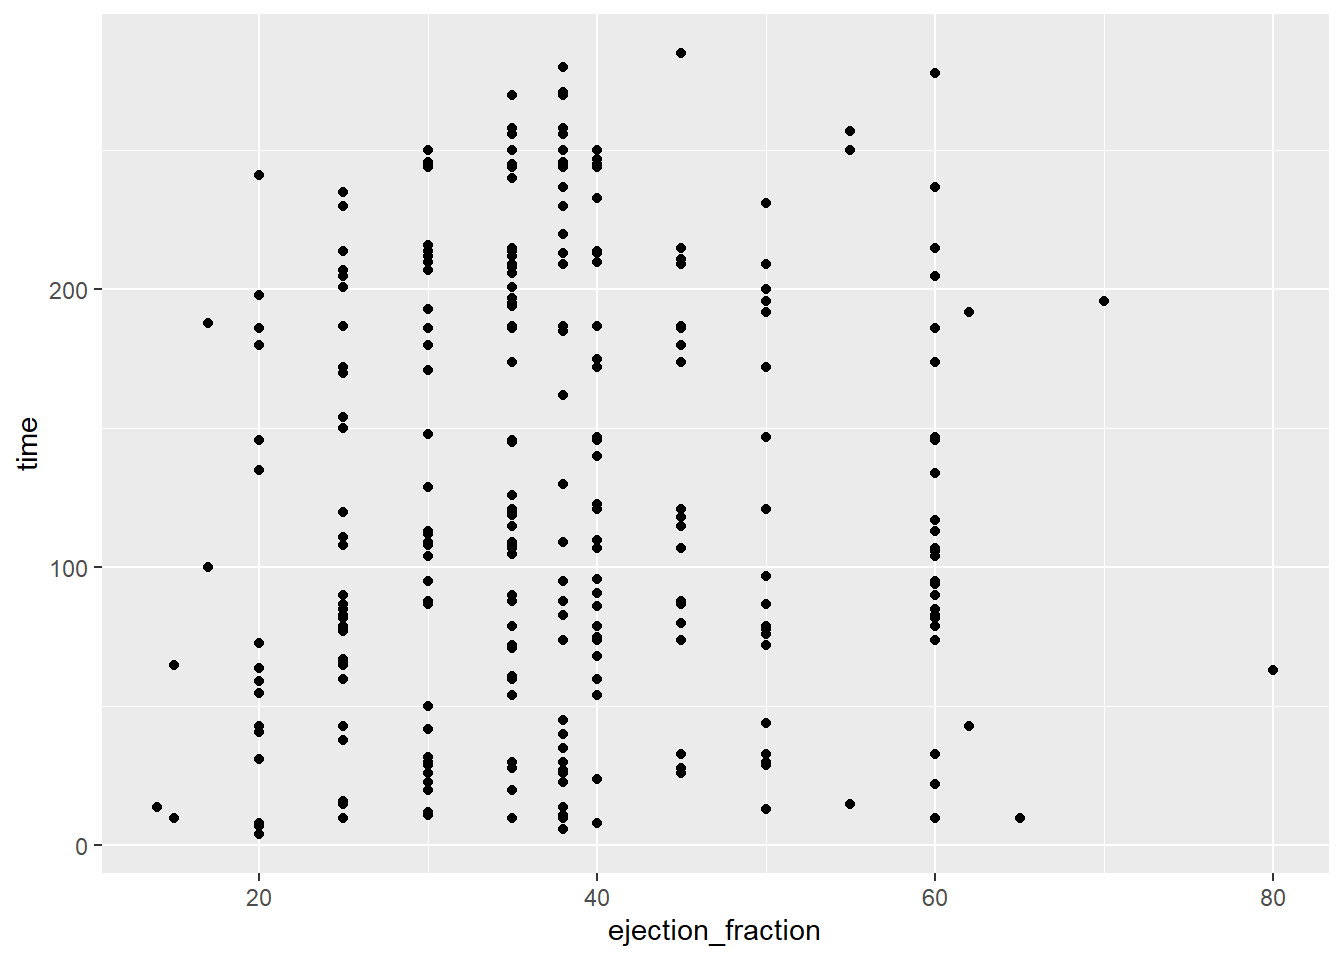
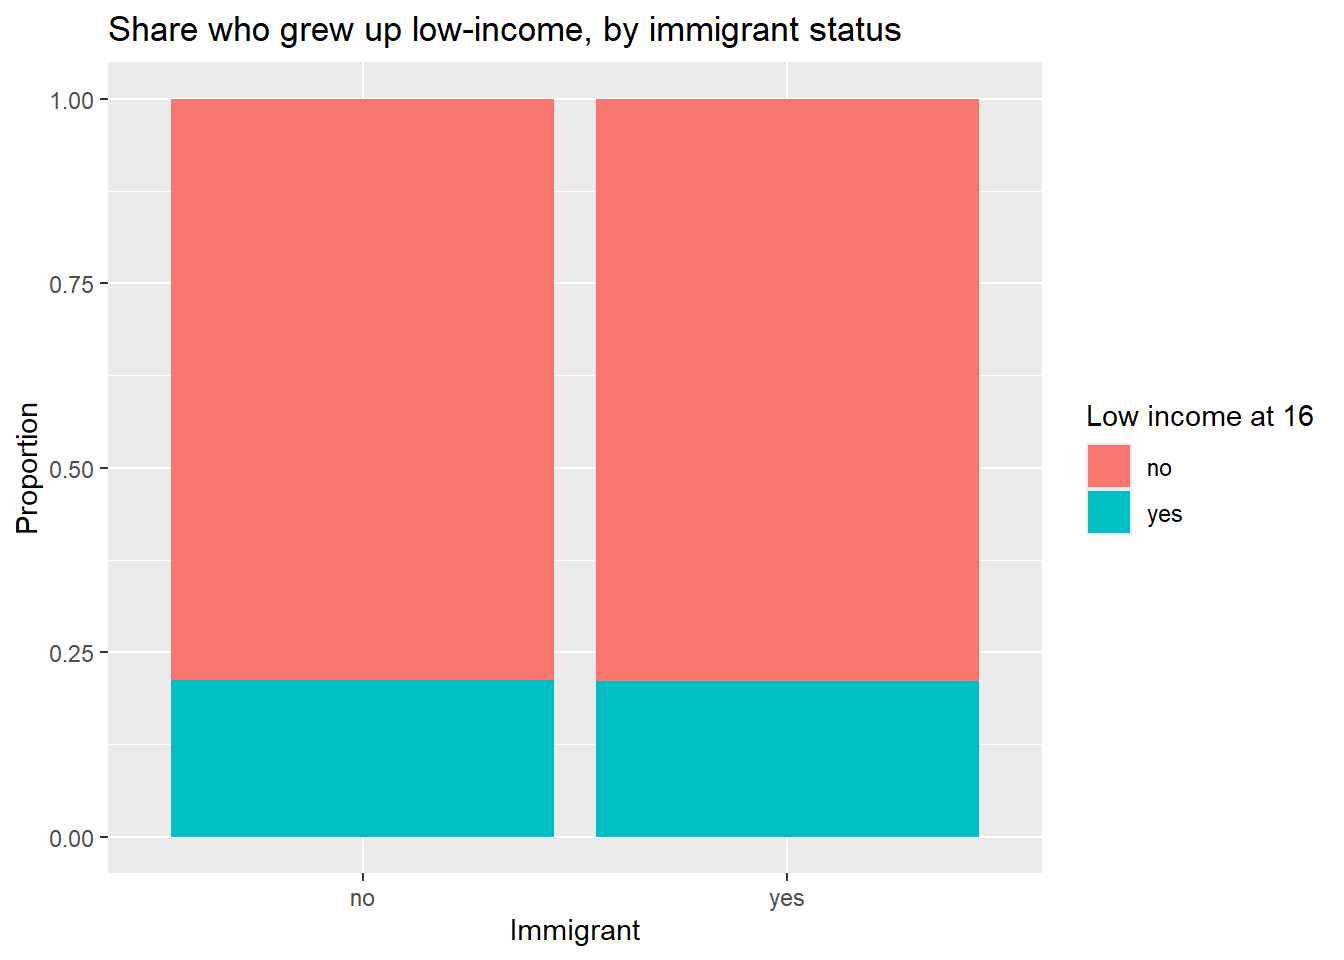
We made changes in panel A limits and all, and then we grafted a few graphs in panel B.

diff --git a/_site/index.html b/_site/index.html
@@ -692,8 +692,11 @@ $ DEATH_EVENT              &lt;fct&gt; yes, yes, yes, yes, yes, yes, yes, yes, y
 <li>Does a weaker heart mean patients don’t survive as long?</li>
 </ol>
 <p>Possibly cannot answer:</p>
-<p>1.Does getting older cause death in heart failure patients? (The data does not show that one causes the other) 2.What happened to patients after the study ended? (we don’t know about later outcomes.)</p>
-<p>Tea test</p>
+<ol type="1">
+<li><p>Does getting older cause death in heart failure patients? (The data does not show that one causes the other)</p></li>
+<li><p>What happened to patients after the study ended? (we don’t know about later outcomes.)</p></li>
+</ol>
+<p>T_test</p>
 <div class="cell">
 <div class="code-copy-outer-scaffold"><div class="sourceCode cell-code" id="cb35"><pre class="sourceCode r code-with-copy"><code class="sourceCode r"><span id="cb35-1"><a href="#cb35-1" aria-hidden="true" tabindex="-1"></a>A <span class="sc">|&gt;</span> <span class="fu">gf_histogram</span>(<span class="sc">~</span> age, <span class="at">fill =</span> <span class="sc">~</span> DEATH_EVENT)</span></code></pre></div><button title="Copy to Clipboard" class="code-copy-button"><i class="bi"></i></button></div>
 <div class="cell-output cell-output-stderr">
@@ -832,6 +835,7 @@ sample estimates:
 <section id="limit" class="level3">
 <h3 class="anchored" data-anchor-id="limit">7. Limit</h3>
 <p>What this panel cannot do. Which kit table we refused to abuse.</p>
+<p>We can see patterns in who died, but we cannot say what caused the deaths or whether these patterns apply to everyone with heart failure.</p>
 </section>
 </section>
 <section id="panel-b-category-talk" class="level1">
@@ -1031,13 +1035,12 @@ $ immigrant   &lt;chr&gt; "no", "no", "yes", "no", "no", "no", "no", "yes", "yes
 <h3 class="anchored" data-anchor-id="ask-1">2. Ask</h3>
 <p>One question <em>this</em> table can answer. One it cannot. Write both.</p>
 <ol type="1">
-<li>Were immigrants more likely to grow up in a low-income family?</li>
-<li>Does education differ between people who grew up low-income and those who didn’t?</li>
-<li>Does growing up low-income relate to how many kids someone has later? (Main Character Question)</li>
-<li>Do people with more years of education have fewer kids?</li>
-<li>Do immigrants have a different number of kids than non-immigrants?</li>
-<li>Do people who experienced low income at age 16 have fewer years of education?</li>
-<li>How many years of education do people in the dataset have?</li>
+<li>Were immigrants more likely to grow up in a low-income family? Immigrants and low income at 16 (shown through education)</li>
+<li>Does education differ between people who grew up low-income and those who didn’t? Education and low income at 16</li>
+<li>Does growing up low-income relate to number of kids? (Main Character)</li>
+<li>Do people with more education have fewer kids?</li>
+<li>Do immigrants have a different number of kids?</li>
+<li>How many years of education do people have?</li>
 </ol>
 <p>Test</p>
 <div class="cell">
@@ -1139,11 +1142,76 @@ key:
 <section id="make-1" class="level3">
 <h3 class="anchored" data-anchor-id="make-1">5. Make</h3>
 <p>Human brick first. Optional: one AI prompt, pasted below, only for what section 3 named.</p>
-<div class="code-copy-outer-scaffold"><div class="sourceCode" id="cb60"><pre class="sourceCode r code-with-copy"><code class="sourceCode r"><span id="cb60-1"><a href="#cb60-1" aria-hidden="true" tabindex="-1"></a><span class="co"># human chunk</span></span>
-<span id="cb60-2"><a href="#cb60-2" aria-hidden="true" tabindex="-1"></a></span>
-<span id="cb60-3"><a href="#cb60-3" aria-hidden="true" tabindex="-1"></a><span class="co"># ## Prompt we actually used</span></span>
-<span id="cb60-4"><a href="#cb60-4" aria-hidden="true" tabindex="-1"></a><span class="co"># ai_draft</span></span>
-<span id="cb60-5"><a href="#cb60-5" aria-hidden="true" tabindex="-1"></a><span class="co"># ours</span></span></code></pre></div><button title="Copy to Clipboard" class="code-copy-button"><i class="bi"></i></button></div>
+<p>These first few charts are what I want to check out. I may/will not have these charts in the final rendered Quarto, but want to comment on findings if needed. If any chart is surprising, it stays. We have decided on choosing graph 2 as our final graph and therefore we did the t-test for it as well.</p>
+<ol type="1">
+<li>{r} B |&gt; gf_bar(~ immigrant, fill = ~ lowincome16, position = “fill”) |&gt; gf_labs(title = “Share who grew up low-income, by immigrant status”, x = “Immigrant”, y = “Proportion”, fill = “Low income at 16”)</li>
+</ol>
+<p>{r} vcd::structable( lowincome16 ~ immigrant, data=B) |&gt; vcd:: mosaic() vcd::structable(lowincome16 ~ immigrant, data = B) |&gt; vcd::mosaic(type = “expected”) mosaic::xchisq.test(lowincome16~ immigrant, data = B)</p>
+<ol start="2" type="1">
+<li><p>{r} B |&gt; group_by(lowincome16) |&gt; summarize(mean_edu = mean(education)) |&gt; gf_col(mean_edu ~ lowincome16, fill = ~ lowincome16) |&gt; gf_labs(title = “Average years of education by low income at 16”, x = “Low income at 16”, y = “Mean years of education”)</p></li>
+<li><p>{r} ggplot(B, aes(x = kids, fill = lowincome16)) + geom_bar(position = “dodge”)</p></li>
+<li><p>{r} ggplot(B, aes(x = education, fill = factor(kids))) + geom_bar()</p></li>
+<li><p>{r} ggplot(B, aes(x = kids, fill = immigrant)) + geom_bar(position = “dodge”)</p></li>
+</ol>
+<p>{r} vcd::structable(kids ~ immigrant, data=B) |&gt; vcd:: mosaic()</p>
+<p>{r} vcd::structable(kids ~ immigrant, data = B) |&gt; vcd::mosaic(type = “expected”) mosaic::xchisq.test(kids~ immigrant, data = B)</p>
+<ol start="6" type="1">
+<li>{r} ggplot(B, aes(x = education)) + geom_bar()</li>
+</ol>
+<p>make</p>
+<div class="cell">
+<div class="code-copy-outer-scaffold"><div class="sourceCode cell-code" id="cb60"><pre class="sourceCode r code-with-copy"><code class="sourceCode r"><span id="cb60-1"><a href="#cb60-1" aria-hidden="true" tabindex="-1"></a>B <span class="sc">|&gt;</span> <span class="fu">gf_bar</span>(<span class="sc">~</span> immigrant, <span class="at">fill =</span> <span class="sc">~</span> lowincome16, <span class="at">position =</span> <span class="st">"fill"</span>) <span class="sc">|&gt;</span> <span class="fu">gf_labs</span>(<span class="at">title =</span> <span class="st">"Share who grew up low-income, by immigrant status"</span>, <span class="at">x =</span> <span class="st">"Immigrant"</span>, <span class="at">y =</span> <span class="st">"Proportion"</span>, <span class="at">fill =</span> <span class="st">"Low income at 16"</span>)</span></code></pre></div><button title="Copy to Clipboard" class="code-copy-button"><i class="bi"></i></button></div>
+<div class="cell-output-display">
+<div>
+<figure class="figure">
+<p><img src="index_files/figure-html/unnamed-chunk-13-1.png" class="img-fluid figure-img" width="672"></p>
+</figure>
+</div>
+</div>
+</div>
+<p>mosaic</p>
+<div class="cell">
+<div class="code-copy-outer-scaffold"><div class="sourceCode cell-code" id="cb61"><pre class="sourceCode r code-with-copy"><code class="sourceCode r"><span id="cb61-1"><a href="#cb61-1" aria-hidden="true" tabindex="-1"></a>vcd<span class="sc">::</span><span class="fu">structable</span>( lowincome16 <span class="sc">~</span> immigrant, <span class="at">data=</span>B) <span class="sc">|&gt;</span> vcd<span class="sc">::</span> <span class="fu">mosaic</span>()</span></code></pre></div><button title="Copy to Clipboard" class="code-copy-button"><i class="bi"></i></button></div>
+<div class="cell-output-display">
+<div>
+<figure class="figure">
+<p><img src="index_files/figure-html/unnamed-chunk-14-1.png" class="img-fluid figure-img" width="672"></p>
+</figure>
+</div>
+</div>
+<div class="code-copy-outer-scaffold"><div class="sourceCode cell-code" id="cb62"><pre class="sourceCode r code-with-copy"><code class="sourceCode r"><span id="cb62-1"><a href="#cb62-1" aria-hidden="true" tabindex="-1"></a>vcd<span class="sc">::</span><span class="fu">structable</span>(lowincome16 <span class="sc">~</span> immigrant, <span class="at">data =</span> B) <span class="sc">|&gt;</span> vcd<span class="sc">::</span><span class="fu">mosaic</span>(<span class="at">type =</span> <span class="st">"expected"</span>)</span></code></pre></div><button title="Copy to Clipboard" class="code-copy-button"><i class="bi"></i></button></div>
+<div class="cell-output-display">
+<div>
+<figure class="figure">
+<p><img src="index_files/figure-html/unnamed-chunk-14-2.png" class="img-fluid figure-img" width="672"></p>
+</figure>
+</div>
+</div>
+<div class="code-copy-outer-scaffold"><div class="sourceCode cell-code" id="cb63"><pre class="sourceCode r code-with-copy"><code class="sourceCode r"><span id="cb63-1"><a href="#cb63-1" aria-hidden="true" tabindex="-1"></a>mosaic<span class="sc">::</span><span class="fu">xchisq.test</span>(lowincome16<span class="sc">~</span> immigrant, <span class="at">data =</span> B)</span></code></pre></div><button title="Copy to Clipboard" class="code-copy-button"><i class="bi"></i></button></div>
+<div class="cell-output cell-output-stdout">
+<pre><code>
+    Pearson's Chi-squared test with Yates' continuity correction
+
+data:  x
+X-squared = 0.016678, df = 1, p-value = 0.8972
+
+  6394      788  
+(6396.07) ( 785.92)
+[0.00039] [0.00316]
+&lt;-0.026&gt; &lt; 0.074&gt;
+   
+  1728      210  
+(1725.92) ( 212.07)
+[0.00144] [0.01170]
+&lt; 0.050&gt; &lt;-0.142&gt;
+   
+key:
+    observed
+    (expected)
+    [contribution to X-squared]
+    &lt;Pearson residual&gt;</code></pre>
+</div>
+</div>
 </section>
 <section id="say-1" class="level3">
 <h3 class="anchored" data-anchor-id="say-1">6. Say</h3>
@@ -1158,16 +1226,16 @@ key:
 <h1>Panel C — place</h1>
 <p><em>Asia-only lifeExp / gdpPercap / pop. Join to rnaturalearth; unmatched names are a brick.</em></p>
 <p>Geometry is not in the CSV. Join in R, then use the same seven headings.</p>
-<div class="code-copy-outer-scaffold"><div class="sourceCode" id="cb61"><pre class="sourceCode r code-with-copy"><code class="sourceCode r"><span id="cb61-1"><a href="#cb61-1" aria-hidden="true" tabindex="-1"></a><span class="co"># library(sf)</span></span>
-<span id="cb61-2"><a href="#cb61-2" aria-hidden="true" tabindex="-1"></a><span class="co"># library(rnaturalearth)</span></span>
-<span id="cb61-3"><a href="#cb61-3" aria-hidden="true" tabindex="-1"></a><span class="co"># world &lt;- ne_countries(scale = "medium", returnclass = "sf")</span></span>
-<span id="cb61-4"><a href="#cb61-4" aria-hidden="true" tabindex="-1"></a><span class="co"># # join on country name; list the unmatched labels</span></span></code></pre></div><button title="Copy to Clipboard" class="code-copy-button"><i class="bi"></i></button></div>
+<div class="code-copy-outer-scaffold"><div class="sourceCode" id="cb65"><pre class="sourceCode r code-with-copy"><code class="sourceCode r"><span id="cb65-1"><a href="#cb65-1" aria-hidden="true" tabindex="-1"></a><span class="co"># library(sf)</span></span>
+<span id="cb65-2"><a href="#cb65-2" aria-hidden="true" tabindex="-1"></a><span class="co"># library(rnaturalearth)</span></span>
+<span id="cb65-3"><a href="#cb65-3" aria-hidden="true" tabindex="-1"></a><span class="co"># world &lt;- ne_countries(scale = "medium", returnclass = "sf")</span></span>
+<span id="cb65-4"><a href="#cb65-4" aria-hidden="true" tabindex="-1"></a><span class="co"># # join on country name; list the unmatched labels</span></span></code></pre></div><button title="Copy to Clipboard" class="code-copy-button"><i class="bi"></i></button></div>
 <section id="see-the-table-2" class="level3">
 <h3 class="anchored" data-anchor-id="see-the-table-2">1. See the table</h3>
 <p>What is a case? Which columns are Quant / Qual? What is missing?</p>
 <div class="cell">
-<div class="code-copy-outer-scaffold"><div class="sourceCode cell-code" id="cb62"><pre class="sourceCode r code-with-copy"><code class="sourceCode r"><span id="cb62-1"><a href="#cb62-1" aria-hidden="true" tabindex="-1"></a><span class="co"># glimpse() / inspect() / skim()</span></span>
-<span id="cb62-2"><a href="#cb62-2" aria-hidden="true" tabindex="-1"></a><span class="fu">glimpse</span> (A)</span></code></pre></div><button title="Copy to Clipboard" class="code-copy-button"><i class="bi"></i></button></div>
+<div class="code-copy-outer-scaffold"><div class="sourceCode cell-code" id="cb66"><pre class="sourceCode r code-with-copy"><code class="sourceCode r"><span id="cb66-1"><a href="#cb66-1" aria-hidden="true" tabindex="-1"></a><span class="co"># glimpse() / inspect() / skim()</span></span>
+<span id="cb66-2"><a href="#cb66-2" aria-hidden="true" tabindex="-1"></a><span class="fu">glimpse</span> (A)</span></code></pre></div><button title="Copy to Clipboard" class="code-copy-button"><i class="bi"></i></button></div>
 <div class="cell-output cell-output-stdout">
 <pre><code>Rows: 299
 Columns: 13
@@ -1202,11 +1270,11 @@ $ DEATH_EVENT              &lt;chr&gt; "yes", "yes", "yes", "yes", "yes", "yes",
 <section id="make-2" class="level3">
 <h3 class="anchored" data-anchor-id="make-2">5. Make</h3>
 <p>Human brick first. Optional: one AI prompt, pasted below, only for what section 3 named.</p>
-<div class="code-copy-outer-scaffold"><div class="sourceCode" id="cb64"><pre class="sourceCode r code-with-copy"><code class="sourceCode r"><span id="cb64-1"><a href="#cb64-1" aria-hidden="true" tabindex="-1"></a><span class="co"># human chunk</span></span>
-<span id="cb64-2"><a href="#cb64-2" aria-hidden="true" tabindex="-1"></a></span>
-<span id="cb64-3"><a href="#cb64-3" aria-hidden="true" tabindex="-1"></a><span class="co"># ## Prompt we actually used</span></span>
-<span id="cb64-4"><a href="#cb64-4" aria-hidden="true" tabindex="-1"></a><span class="co"># ai_draft</span></span>
-<span id="cb64-5"><a href="#cb64-5" aria-hidden="true" tabindex="-1"></a><span class="co"># ours</span></span></code></pre></div><button title="Copy to Clipboard" class="code-copy-button"><i class="bi"></i></button></div>
+<div class="code-copy-outer-scaffold"><div class="sourceCode" id="cb68"><pre class="sourceCode r code-with-copy"><code class="sourceCode r"><span id="cb68-1"><a href="#cb68-1" aria-hidden="true" tabindex="-1"></a><span class="co"># human chunk</span></span>
+<span id="cb68-2"><a href="#cb68-2" aria-hidden="true" tabindex="-1"></a></span>
+<span id="cb68-3"><a href="#cb68-3" aria-hidden="true" tabindex="-1"></a><span class="co"># ## Prompt we actually used</span></span>
+<span id="cb68-4"><a href="#cb68-4" aria-hidden="true" tabindex="-1"></a><span class="co"># ai_draft</span></span>
+<span id="cb68-5"><a href="#cb68-5" aria-hidden="true" tabindex="-1"></a><span class="co"># ours</span></span></code></pre></div><button title="Copy to Clipboard" class="code-copy-button"><i class="bi"></i></button></div>
 </section>
 <section id="say-2" class="level3">
 <h3 class="anchored" data-anchor-id="say-2">6. Say</h3>
@@ -1227,13 +1295,13 @@ $ DEATH_EVENT              &lt;chr&gt; "yes", "yes", "yes", "yes", "yes", "yes",
 <li>Limits: sample, missingness, the test we did not run</li>
 <li>Gift for the steal-this strip (palette, annotation, join trick)</li>
 </ul>
-<div class="code-copy-outer-scaffold"><div class="sourceCode" id="cb65"><pre class="sourceCode r code-with-copy"><code class="sourceCode r"><span id="cb65-1"><a href="#cb65-1" aria-hidden="true" tabindex="-1"></a><span class="co"># sessionInfo()</span></span></code></pre></div><button title="Copy to Clipboard" class="code-copy-button"><i class="bi"></i></button></div>
-<div class="code-copy-outer-scaffold"><div class="sourceCode" id="cb66"><pre class="sourceCode r code-with-copy"><code class="sourceCode r"><span id="cb66-1"><a href="#cb66-1" aria-hidden="true" tabindex="-1"></a>ponel<span class="sc">-</span>A.csv <span class="ot">-&gt;</span> read <span class="ot">-&gt;</span> save it <span class="cf">in</span> my memory so I can chart it. </span></code></pre></div><button title="Copy to Clipboard" class="code-copy-button"><i class="bi"></i></button></div>
+<div class="code-copy-outer-scaffold"><div class="sourceCode" id="cb69"><pre class="sourceCode r code-with-copy"><code class="sourceCode r"><span id="cb69-1"><a href="#cb69-1" aria-hidden="true" tabindex="-1"></a><span class="co"># sessionInfo()</span></span></code></pre></div><button title="Copy to Clipboard" class="code-copy-button"><i class="bi"></i></button></div>
+<div class="code-copy-outer-scaffold"><div class="sourceCode" id="cb70"><pre class="sourceCode r code-with-copy"><code class="sourceCode r"><span id="cb70-1"><a href="#cb70-1" aria-hidden="true" tabindex="-1"></a>ponel<span class="sc">-</span>A.csv <span class="ot">-&gt;</span> read <span class="ot">-&gt;</span> save it <span class="cf">in</span> my memory so I can chart it. </span></code></pre></div><button title="Copy to Clipboard" class="code-copy-button"><i class="bi"></i></button></div>
 <div class="cell">
-<div class="code-copy-outer-scaffold"><div class="sourceCode cell-code" id="cb67"><pre class="sourceCode r code-with-copy"><code class="sourceCode r"><span id="cb67-1"><a href="#cb67-1" aria-hidden="true" tabindex="-1"></a><span class="fu">library</span>(tidyverse) </span></code></pre></div><button title="Copy to Clipboard" class="code-copy-button"><i class="bi"></i></button></div>
+<div class="code-copy-outer-scaffold"><div class="sourceCode cell-code" id="cb71"><pre class="sourceCode r code-with-copy"><code class="sourceCode r"><span id="cb71-1"><a href="#cb71-1" aria-hidden="true" tabindex="-1"></a><span class="fu">library</span>(tidyverse) </span></code></pre></div><button title="Copy to Clipboard" class="code-copy-button"><i class="bi"></i></button></div>
 </div>
 <div class="cell">
-<div class="code-copy-outer-scaffold"><div class="sourceCode cell-code" id="cb68"><pre class="sourceCode r code-with-copy"><code class="sourceCode r"><span id="cb68-1"><a href="#cb68-1" aria-hidden="true" tabindex="-1"></a>myPanelAData <span class="ot">&lt;-</span> <span class="fu">read_csv</span>(<span class="at">file =</span> <span class="st">"data/panel-A.csv"</span>)</span></code></pre></div><button title="Copy to Clipboard" class="code-copy-button"><i class="bi"></i></button></div>
+<div class="code-copy-outer-scaffold"><div class="sourceCode cell-code" id="cb72"><pre class="sourceCode r code-with-copy"><code class="sourceCode r"><span id="cb72-1"><a href="#cb72-1" aria-hidden="true" tabindex="-1"></a>myPanelAData <span class="ot">&lt;-</span> <span class="fu">read_csv</span>(<span class="at">file =</span> <span class="st">"data/panel-A.csv"</span>)</span></code></pre></div><button title="Copy to Clipboard" class="code-copy-button"><i class="bi"></i></button></div>
 <div class="cell-output cell-output-stderr">
 <pre><code>Rows: 299 Columns: 13
 ── Column specification ────────────────────────────────────────────────────────
@@ -1246,27 +1314,27 @@ dbl (7): age, creatinine_phosphokinase, ejection_fraction, platelets, serum_...
 </div>
 </div>
 <div class="cell">
-<div class="code-copy-outer-scaffold"><div class="sourceCode cell-code" id="cb70"><pre class="sourceCode r code-with-copy"><code class="sourceCode r"><span id="cb70-1"><a href="#cb70-1" aria-hidden="true" tabindex="-1"></a>diamonds <span class="sc">|&gt;</span> </span>
-<span id="cb70-2"><a href="#cb70-2" aria-hidden="true" tabindex="-1"></a></span>
-<span id="cb70-3"><a href="#cb70-3" aria-hidden="true" tabindex="-1"></a><span class="fu">ggplot</span>(</span>
-<span id="cb70-4"><a href="#cb70-4" aria-hidden="true" tabindex="-1"></a></span>
-<span id="cb70-5"><a href="#cb70-5" aria-hidden="true" tabindex="-1"></a><span class="fu">aes</span>(<span class="at">x =</span> carat, <span class="at">y =</span> price, <span class="at">color =</span> cut, <span class="at">shape =</span> cut))<span class="sc">+</span></span>
-<span id="cb70-6"><a href="#cb70-6" aria-hidden="true" tabindex="-1"></a></span>
-<span id="cb70-7"><a href="#cb70-7" aria-hidden="true" tabindex="-1"></a><span class="fu">geom_point</span>()</span></code></pre></div><button title="Copy to Clipboard" class="code-copy-button"><i class="bi"></i></button></div>
+<div class="code-copy-outer-scaffold"><div class="sourceCode cell-code" id="cb74"><pre class="sourceCode r code-with-copy"><code class="sourceCode r"><span id="cb74-1"><a href="#cb74-1" aria-hidden="true" tabindex="-1"></a>diamonds <span class="sc">|&gt;</span> </span>
+<span id="cb74-2"><a href="#cb74-2" aria-hidden="true" tabindex="-1"></a></span>
+<span id="cb74-3"><a href="#cb74-3" aria-hidden="true" tabindex="-1"></a><span class="fu">ggplot</span>(</span>
+<span id="cb74-4"><a href="#cb74-4" aria-hidden="true" tabindex="-1"></a></span>
+<span id="cb74-5"><a href="#cb74-5" aria-hidden="true" tabindex="-1"></a><span class="fu">aes</span>(<span class="at">x =</span> carat, <span class="at">y =</span> price, <span class="at">color =</span> cut, <span class="at">shape =</span> cut))<span class="sc">+</span></span>
+<span id="cb74-6"><a href="#cb74-6" aria-hidden="true" tabindex="-1"></a></span>
+<span id="cb74-7"><a href="#cb74-7" aria-hidden="true" tabindex="-1"></a><span class="fu">geom_point</span>()</span></code></pre></div><button title="Copy to Clipboard" class="code-copy-button"><i class="bi"></i></button></div>
 <div class="cell-output cell-output-stderr">
 <pre><code>Warning: Using shapes for an ordinal variable is not advised</code></pre>
 </div>
 <div class="cell-output-display">
 <div>
 <figure class="figure">
-<p><img src="index_files/figure-html/unnamed-chunk-16-1.png" class="img-fluid figure-img" width="672"></p>
+<p><img src="index_files/figure-html/unnamed-chunk-18-1.png" class="img-fluid figure-img" width="672"></p>
 </figure>
 </div>
 </div>
 </div>
 <p>“install.packages”</p>
 <div class="cell">
-<div class="code-copy-outer-scaffold"><div class="sourceCode cell-code" id="cb72"><pre class="sourceCode r code-with-copy"><code class="sourceCode r"><span id="cb72-1"><a href="#cb72-1" aria-hidden="true" tabindex="-1"></a><span class="fu">installed.packages</span>(<span class="st">"vcd"</span>)</span></code></pre></div><button title="Copy to Clipboard" class="code-copy-button"><i class="bi"></i></button></div>
+<div class="code-copy-outer-scaffold"><div class="sourceCode cell-code" id="cb76"><pre class="sourceCode r code-with-copy"><code class="sourceCode r"><span id="cb76-1"><a href="#cb76-1" aria-hidden="true" tabindex="-1"></a><span class="fu">installed.packages</span>(<span class="st">"vcd"</span>)</span></code></pre></div><button title="Copy to Clipboard" class="code-copy-button"><i class="bi"></i></button></div>
 <div class="cell-output cell-output-stdout">
 <pre><code>     Package LibPath Version Priority Depends Imports LinkingTo Suggests
      Enhances License License_is_FOSS License_restricts_use OS_type Archs
@@ -1274,7 +1342,7 @@ dbl (7): age, creatinine_phosphokinase, ejection_fraction, platelets, serum_...
 </div>
 </div>
 <div class="cell">
-<div class="code-copy-outer-scaffold"><div class="sourceCode cell-code" id="cb74"><pre class="sourceCode r code-with-copy"><code class="sourceCode r"><span id="cb74-1"><a href="#cb74-1" aria-hidden="true" tabindex="-1"></a><span class="fu">library</span>(vcd)</span></code></pre></div><button title="Copy to Clipboard" class="code-copy-button"><i class="bi"></i></button></div>
+<div class="code-copy-outer-scaffold"><div class="sourceCode cell-code" id="cb78"><pre class="sourceCode r code-with-copy"><code class="sourceCode r"><span id="cb78-1"><a href="#cb78-1" aria-hidden="true" tabindex="-1"></a><span class="fu">library</span>(vcd)</span></code></pre></div><button title="Copy to Clipboard" class="code-copy-button"><i class="bi"></i></button></div>
 <div class="cell-output cell-output-stderr">
 <pre><code>Loading required package: grid</code></pre>
 </div>
